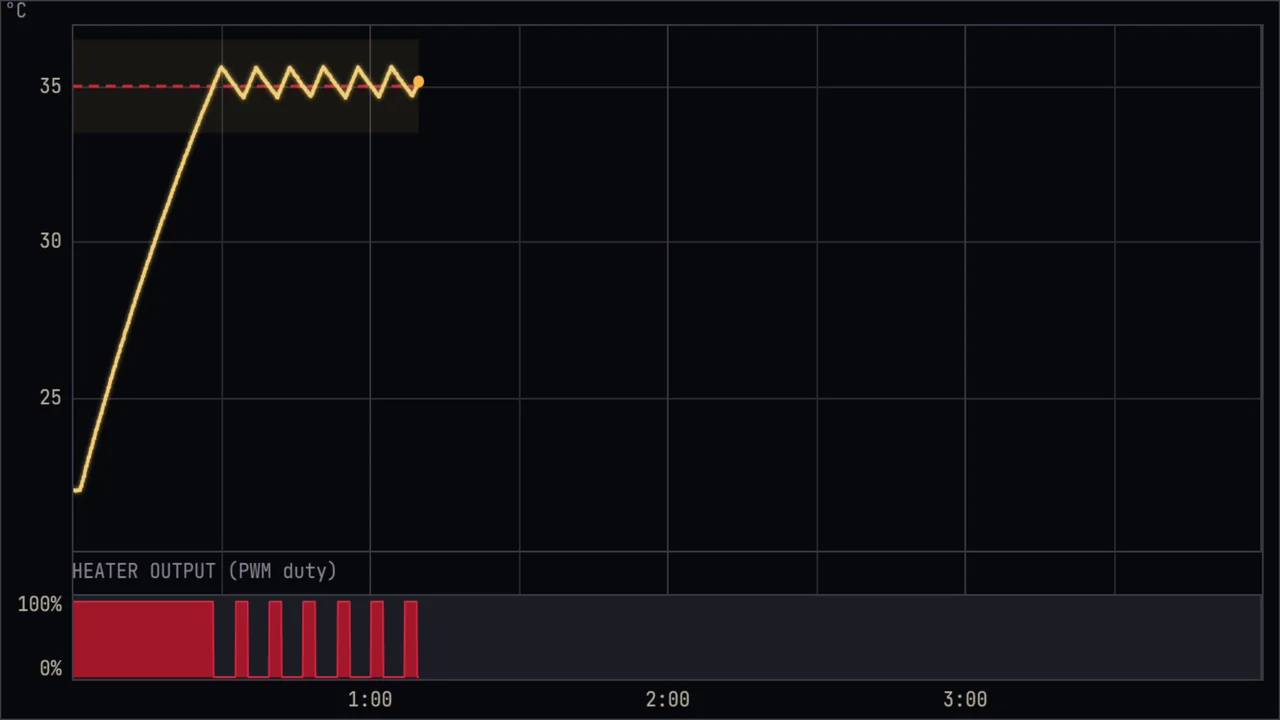
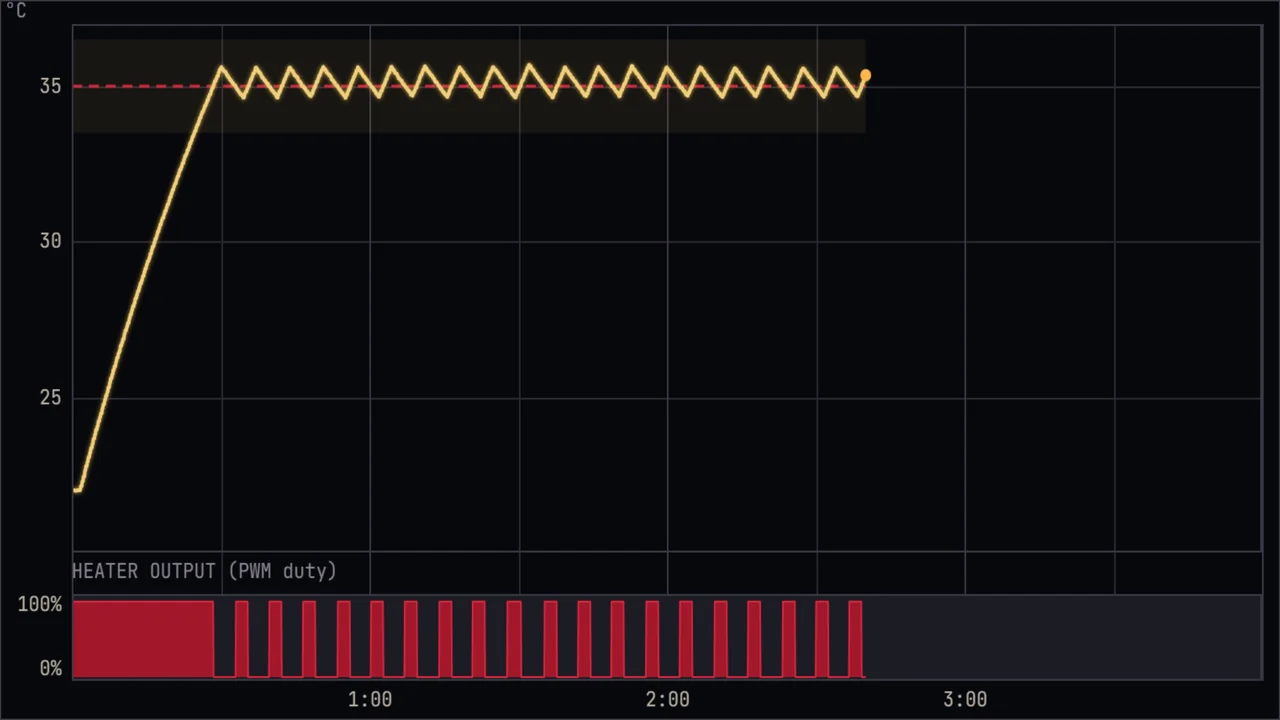
Apply review fixes: honest wording, dead link, mobile hero, contrast, covers
- Arkanoid credited to the course physics framework; teleop text matches teleop.py
- Remove 404 thesis repo link; clarify LAZYBOT, apple, log-identity wording
- Moon moves above the title on phones; hide scroll hint on small screens
- Raise --ash and HUD heart contrast to WCAG AA; card covers for Planty and STM32
- Fill grid rows evenly (Planty no longer a wide card)

Changed region(s): [[0.3125, 0.825, 0.6875, 0.9472], [0.3125, 0.0917, 0.6875, 0.1528]]

diff --git a/data/projects.js b/data/projects.js
@@ -28,7 +28,6 @@ window.PORTFOLIO.projects = [
     coverCaption: "Detected advertisements (class \"ad\") on a building facade.",
     role: "Author (master's thesis)",
     facts: [["University", "Poznan University of Technology"], ["Dataset", "≈1,050 labelled images"]],
-    links: [{ label: "Code on GitHub", url: "https://github.com/krzysztof-nowicki/Ad-removal-and-inpaint" }],
     description: [
       { heading: "The idea", text: [
         "Cities are covered in advertising. The thesis asks a simple question: can a computer find every advertisement in a street photo and remove it so convincingly that you cannot tell it was there?",
@@ -85,8 +84,8 @@ window.PORTFOLIO.projects = [
     tagline: "Turning electrical signals of plants and fungi into music with a signal-agnostic 'skeleton' and a neural network.",
     status: "wip",
     category: "personal",
-    featured: true,
     order: 2,
+    cardCover: "assets/projects/planty/card.webp",
     year: "2026",
     tech: ["Python", "PyTorch", "NumPy", "SciPy", "librosa", "pandas", "Matplotlib", "pytest"],
     summary: "Any biosignal is reduced to two slow curves, contour and energy. A network trained only on real music learns to turn those curves into a spectrogram, so a Mimosa leaf can 'play' a song.",
@@ -151,13 +150,13 @@ window.PORTFOLIO.projects = [
     description: [
       { heading: "How it works", text: [
         "Two RGB cameras watch the operator. Each image goes through a convolutional network that regresses three arm keypoints (shoulder, elbow, wrist) from a 96×96 crop. I compared several pretrained backbones, ResNet34, AlexNet and MobileNetV2, with their last layers cut off and a custom keypoint decoder attached, trained with Adam and an MSE loss.",
-        "Both cameras are calibrated individually and as a stereo pair with OpenCV. The 2D keypoints from the two views are triangulated with the direct linear transform into a 3D point, and a ROS node maps that point into the workspace of a UR5 robot, which follows the operator's hand."
+        "Both cameras are calibrated individually and as a stereo pair with OpenCV. The 2D keypoints from the two views are triangulated with the direct linear transform into 3D points. From the shoulder, elbow and wrist vectors a ROS node computes the arm's joint angles and sends them to a UR5 robot as joint trajectories, so the robot copies the operator's pose."
       ] }
     ],
     highlights: [
       "Backbone comparison: ResNet34, AlexNet and MobileNetV2 with custom decoders",
       "Stereo calibration and DLT triangulation of the keypoints",
-      "ROS bridge to a Universal Robots UR5 arm"
+      "Limb vectors to joint angles, sent to a Universal Robots UR5 over ROS"
     ],
     demo: "arm-teleop",
     snippets: [
@@ -221,7 +220,7 @@ newmodel4 = torch.nn.Sequential(*(list(net6.children())[:-1]))#[1, 1280, 3, 3]`
     demo: "gothic-platformer",
     snippets: [{
       language: "cpp", file: "Kolizja.cpp",
-      note: "Collision between two boxes: measure the overlap on each axis, then resolve along the smaller one and split the correction by the push factor.",
+      note: "Collision between two boxes: measure the overlap on each axis, then resolve along the smaller one and split the correction by the push factor. (Abridged.)",
       code: `sf::Vector2f TaPozycja = Pozycja();
 sf::Vector2f TaPozycjaPol = PozycjaPol();
 float deltaX = innaPozycja.x - TaPozycja.x;
@@ -440,7 +439,7 @@ full_prob = 0.4 * first_prob + 0.1 * sec_prob + 0.5 * third_prob`
     description: [
       { heading: "How it works", text: [
         "The robot measures distance with an HC-SR04 ultrasonic sensor and drives two DC motors through an H-bridge. Its behaviour is a small finite-state machine on that one number: search (spin in place) when nothing is close, follow (drive forward) when something is within 60 cm, and attack (stop and sweep the servo arm) under 10 cm.",
-        "Related builds in the same folder include LAZYBOT, a robot driven by an IR remote with PWM speed control and a servo arm."
+        "A related build, LAZYBOT, is steered by an IR remote with PWM speed control and a servo arm (see the Archive)."
       ] }
     ],
     demo: "robot-arena",
@@ -470,8 +469,8 @@ else {
     id: "arkanoid",
     cover: "assets/projects/arkanoid/cover.webp",
     coverOnPage: false,
-    title: "Arkanoid on a hand-built physics layer",
-    tagline: "University C++ game with FreeGLUT: a class hierarchy for shapes and physics, collisions and reflections.",
+    title: "Arkanoid on a FreeGLUT physics framework",
+    tagline: "University C++ game built on the course's shape and physics classes: collisions, reflections and a playable level.",
     status: "finished",
     category: "university",
     order: 10,
@@ -488,7 +487,7 @@ else {
     demoNote: "A browser port of the physics. Unlike the original, which has a bottom wall, the ball can fall past the paddle here, so you can lose lives.",
     snippets: [{
       language: "cpp", file: "Physics.cpp",
-      note: "The law of reflection in three lines: angles in degrees, and the rebound only applies when the ball moves into the wall.",
+      note: "The rebound rule from the course's Physics class, which the game relies on: angles in degrees, applied only when the ball moves into the wall. (Comments translated.)",
       code: `void Physics::Rebound(double alfa_n) // rebound from a wall described by its normal alfa_n
 {
 	// angle of incidence equals angle of reflection (only if the object moves into the wall)
@@ -526,7 +525,7 @@ else {
     category: "university",
     order: 12,
     tech: ["PyTorch", "torchvision", "OpenCV", "ONNX", "Jupyter"],
-    summary: "A COCO-pretrained Keypoint R-CNN fine-tuned to find two keypoints per apple, the ends of its axis, from my own annotations, then exported to ONNX for deployment.",
+    summary: "A COCO-pretrained Keypoint R-CNN fine-tuned to find two keypoints per apple, the ends of its axis, from custom annotations, then exported to ONNX for deployment.",
     cover: "assets/projects/apple-keypoints/cover.svg",
     coverAlt: "Illustration of two apples with detection boxes and axis keypoints",
     role: "Author",
@@ -554,7 +553,7 @@ else {
     snippets: [
       {
         language: "python", file: "teamviewer_guard.py",
-        note: "Detecting a rotated or replaced log file: if the file's device and inode pair changes, reopen it at the end. (Log message translated to English.)",
+        note: "Detecting a rotated or replaced log file: if the file's identity (volume and file ID) changes, reopen it at the end. (Log message translated to English.)",
         code: `identity = (
     stat.st_dev,
     stat.st_ino,

diff --git a/css/style.css b/css/style.css
@@ -12,7 +12,7 @@
   --stone-3: #3b3845;
   --parchment: #e9e1cf;
   --parchment-dim: #b9b0a0;
-  --ash: #8a8494;
+  --ash: #9a94a4;
   --blood: #a3172a;
   --blood-bright: #d8263d;
   --blood-deep: #5c0b16;
@@ -119,7 +119,7 @@ p { margin: 0 0 1em; }
 .nav__toggle[aria-expanded="true"] span:nth-child(1) { transform: translateY(8px) rotate(45deg); }
 .nav__toggle[aria-expanded="true"] span:nth-child(2) { opacity: 0; }
 .nav__toggle[aria-expanded="true"] span:nth-child(3) { transform: translateY(-8px) rotate(-45deg); }
-.hud-hearts { font-size: .85rem; color: var(--blood-bright); font-family: var(--font-pixel); white-space: nowrap; }
+.hud-hearts { font-size: .85rem; color: #ee4b60; font-family: var(--font-pixel); white-space: nowrap; }
 .hud-hearts.is-bump { animation: bump .35s ease; }
 @keyframes bump { 50% { transform: scale(1.35); } }
 
@@ -142,7 +142,9 @@ p { margin: 0 0 1em; }
 .hero__kicker { color: var(--gold); font-size: .8rem; margin-bottom: .6rem; }
 .hero__title { font-size: clamp(2.6rem, 7vw, 5.2rem); font-weight: 900; letter-spacing: .04em; margin: 0; color: var(--parchment); text-shadow: 0 0 30px rgba(216, 38, 61, .35), 0 4px 0 var(--blood-deep); }
 .hero__role { font-family: var(--font-display); color: var(--gold-bright); font-size: clamp(1rem, 2.2vw, 1.35rem); letter-spacing: .14em; text-transform: uppercase; margin: .6rem 0 1.2rem; }
-.hero__lead { max-width: 38em; color: var(--parchment-dim); font-size: 1.1rem; }
+.hero__lead { max-width: 34rem; color: var(--parchment-dim); font-size: 1.1rem; text-shadow: 0 1px 10px var(--night-0), 0 0 2px var(--night-0); }
+.hero__role, .hero__kicker { text-shadow: 0 1px 10px var(--night-0); }
+@media (max-width: 700px) { .hero__scroll { display: none; } }
 .hero__actions { display: flex; flex-wrap: wrap; gap: 1rem; margin-top: 1.6rem; }
 .hero__scroll { position: absolute; left: 50%; bottom: 24px; width: 26px; height: 42px; border: 2px solid var(--parchment-dim); border-radius: 14px; transform: translateX(-50%); }
 .hero__scroll span { position: absolute; left: 50%; top: 8px; width: 4px; height: 8px; margin-left: -2px; background: var(--candle); border-radius: 2px; animation: scrollhint 1.8s infinite; }

diff --git a/data/profile.js b/data/profile.js
@@ -10,7 +10,7 @@ window.PORTFOLIO.profile = {
   lead: "I build systems that see and move: computer vision, neural networks and robots, from microcontroller firmware to deep-learning pipelines.",
 
   about: [
-    "I am an engineer in Automatic Control and Robotics from Poznan University of Technology, where I finished a bachelor's degree in Robotics and a master's degree specialised in Robots and Autonomous Systems.",
+    "I studied Automatic Control and Robotics at Poznan University of Technology, finishing a bachelor's degree in Robotics and a master's degree specialising in Robots and Autonomous Systems.",
     "Most of my work sits where software meets the physical world: detecting and removing advertisements from street photos with YOLO and inpainting models, teleoperating a UR5 robot arm from two RGB cameras, regulating temperature on an STM32 microcontroller, and teaching models to react to music and biosignals.",
     "After university I spent almost three years as an AI Software Engineering Graduate Intern at Intel. Outside of code I play piano and listen to jazz, play basketball and baseball, and keep a healthy collection of video and board games."
   ],

diff --git a/js/main.js b/js/main.js
@@ -31,8 +31,9 @@
 
   /* ---------- Projects ---------- */
   function card(p) {
-    const media = p.cover
-      ? h("img", { src: p.cover, alt: p.coverAlt || "", loading: "lazy", width: 640, height: 360 })
+    const src = p.cardCover || p.cover;
+    const media = src
+      ? h("img", { src, alt: p.coverAlt || "", loading: "lazy", width: 640, height: 360 })
       : h("div", { class: "card__fallback", "aria-hidden": "true" }, p.title.split(/\s+/).slice(0, 2).map(w => w[0]).join(""));
     return h("article", { class: "card" + (p.featured ? " card--featured" : ""), dataset: { id: p.id, status: p.status, search: [p.title, p.tagline, p.summary, ...(p.tech || [])].join(" ").toLowerCase(), tech: (p.tech || []).join("|").toLowerCase() } },
       h("div", { class: "card__media" }, media,

diff --git a/js/demos/arkanoid.js b/js/demos/arkanoid.js
@@ -120,7 +120,7 @@
 
   PortfolioDemos.register("arkanoid", {
     title: "Arkanoid with custom physics",
-    note: "Simulation of my C++/FreeGLUT Arkanoid: a 10 ms fixed-step loop and a rebound off the side nearest the ball centre. Press Start, switch on the physics debug to see the chosen normal, and try the gravity slider (the original had g = 0).",
+    note: "Browser port of my FreeGLUT Arkanoid and the course physics it builds on: a 10 ms fixed-step loop and a rebound off the side nearest the ball centre. Press Start, switch on the physics debug to see the chosen normal, and try the gravity slider (the original had g = 0).",
     mount(host, kit) {
       const h = kit.h;
       const c = kit.colors();

diff --git a/js/hero.js b/js/hero.js
@@ -51,7 +51,11 @@
       clouds = Array.from({ length: 5 }, () => ({ x: rand() * W, y: H * (0.1 + rand() * 0.35), w: 180 + rand() * 260, v: 4 + rand() * 8 }));
     }
 
-    function moonPos() { return { x: W > 900 ? W * 0.8 : W * 0.72, y: H * 0.24, r: Math.max(38, Math.min(W, H) * 0.09) }; }
+    // On narrow screens the moon sits in the top corner, above the title, so it never sits behind text.
+    function moonPos() {
+      if (W < 700) return { x: W * 0.84, y: 92, r: 26 };
+      return { x: W > 900 ? W * 0.8 : W * 0.72, y: H * 0.24, r: Math.max(38, Math.min(W, H) * 0.09) };
+    }
 
     function draw(t) {
       // Sky

diff --git a/README.md b/README.md
@@ -69,6 +69,7 @@ Useful flags:
 | `compact: true, page: false` | Listed under "More projects", no page (for work without code or media) |
 | `hidden: true` | Not shown anywhere; preview with `project.html?id=<id>&preview` |
 | `demo: "<name>"` | Loads `js/demos/<name>.js` on the project page |
+| `cardCover: "<path>"` | A different image for the card than the page cover |
 | `coverOnPage: false` | Use `cover` on the card only (e.g. when the cover is a screenshot of the demo shown on the page) |
 
 Images: put them in `assets/projects/<id>/` (WebP or JPG, around 1400 px wide is plenty). The existing ones were copied and resized by an import script kept outside this repository (it lists local paths).
